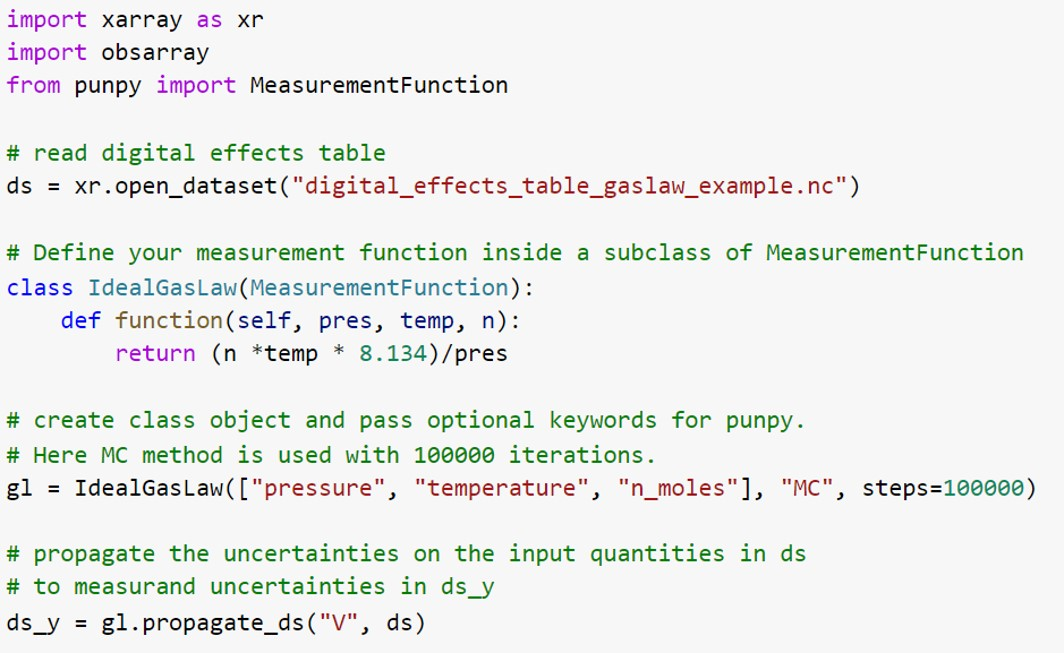
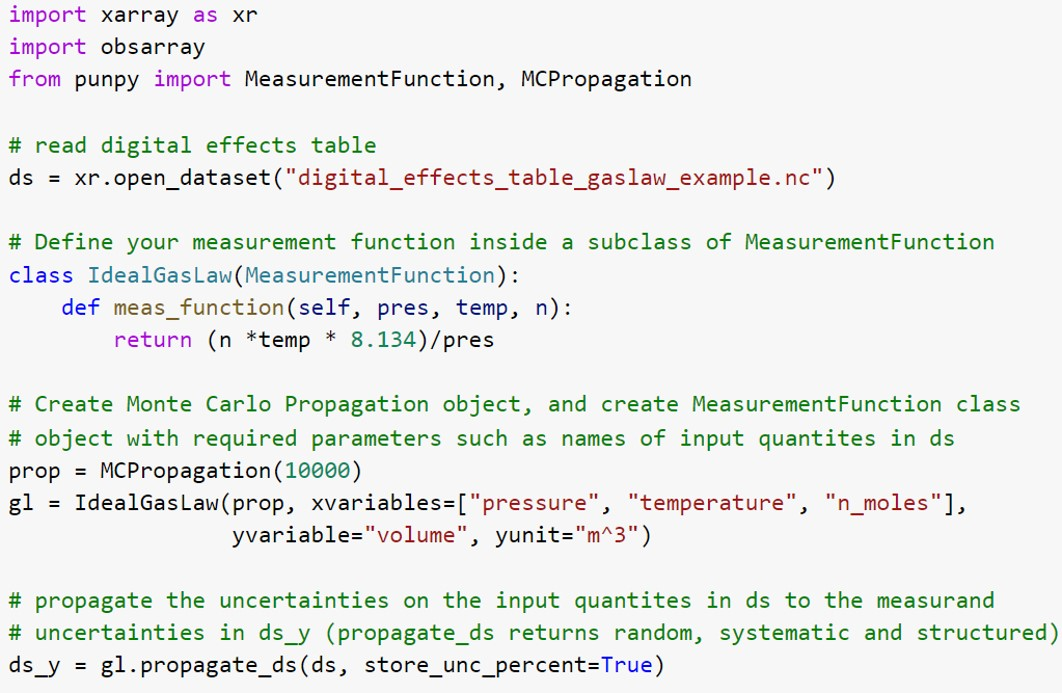
update for VH-RODA

diff --git a/content/post/22-11-07-VH-RODA-poster/index.md b/content/post/22-11-07-VH-RODA-poster/index.md
@@ -1,0 +1,20 @@
+---
+title: Poster at the VH-RODA workshop
+date: 2022-11-07
+image:
+  focal_point: 'top'
+---
+
+A Poster on the CoMet toolkit is presented during the VH-RODA workshop.
+
+<!--more-->
+
+The Very High-resolution Radar & Optical Data Assessment (VH-RODA) will provide an 
+open forum (for the new space, commercial and institutional space sectors) for 
+presenting and discussing about the current status and future developments related to 
+Earth Observation (EO) data quality, calibration and validation of space-borne 
+very high-resolution SAR and Optical sensors and data products, with a dedicated focus 
+on commercial EO data providers and related Cal/Val activities, synergies between optical 
+and SAR communities, presentation of standards and best practices for data quality.
+Uncertainties are of paramount importance to this field, and the CoMet toolkit could be
+a very useful tool for this community.

diff --git a/content/post/22-09-06-UKEO-Conference/index.md b/content/post/22-09-06-UKEO-Conference/index.md
@@ -1,0 +1,20 @@
+---
+title: CoMet Toolkit presented at UK EO conference
+date: 2022-09-06
+image:
+  focal_point: 'top'
+---
+
+An oral presentation on the CoMet toolkit was presented during the UK National 
+Earth Observation Conference 2022.
+
+<!--more-->
+
+The UK National Earth Observation Conference 2022 – the premier annual event for the 
+Earth Observation, Remote Sensing and Photogrammetry community took place on the 6-8th 
+September 2022, providing a great opportunity for people to meet, network and learn 
+about the latest developments in scientific research and space-enabled technology.
+The CoMet toolkit was presented in a session on "Python for Earth Observation and 
+Climate Sciences", which was an excellent fit. There was significant interest in 
+our toolkit, and it was also very interesting to see all the other work people 
+are doing in python for EO.
